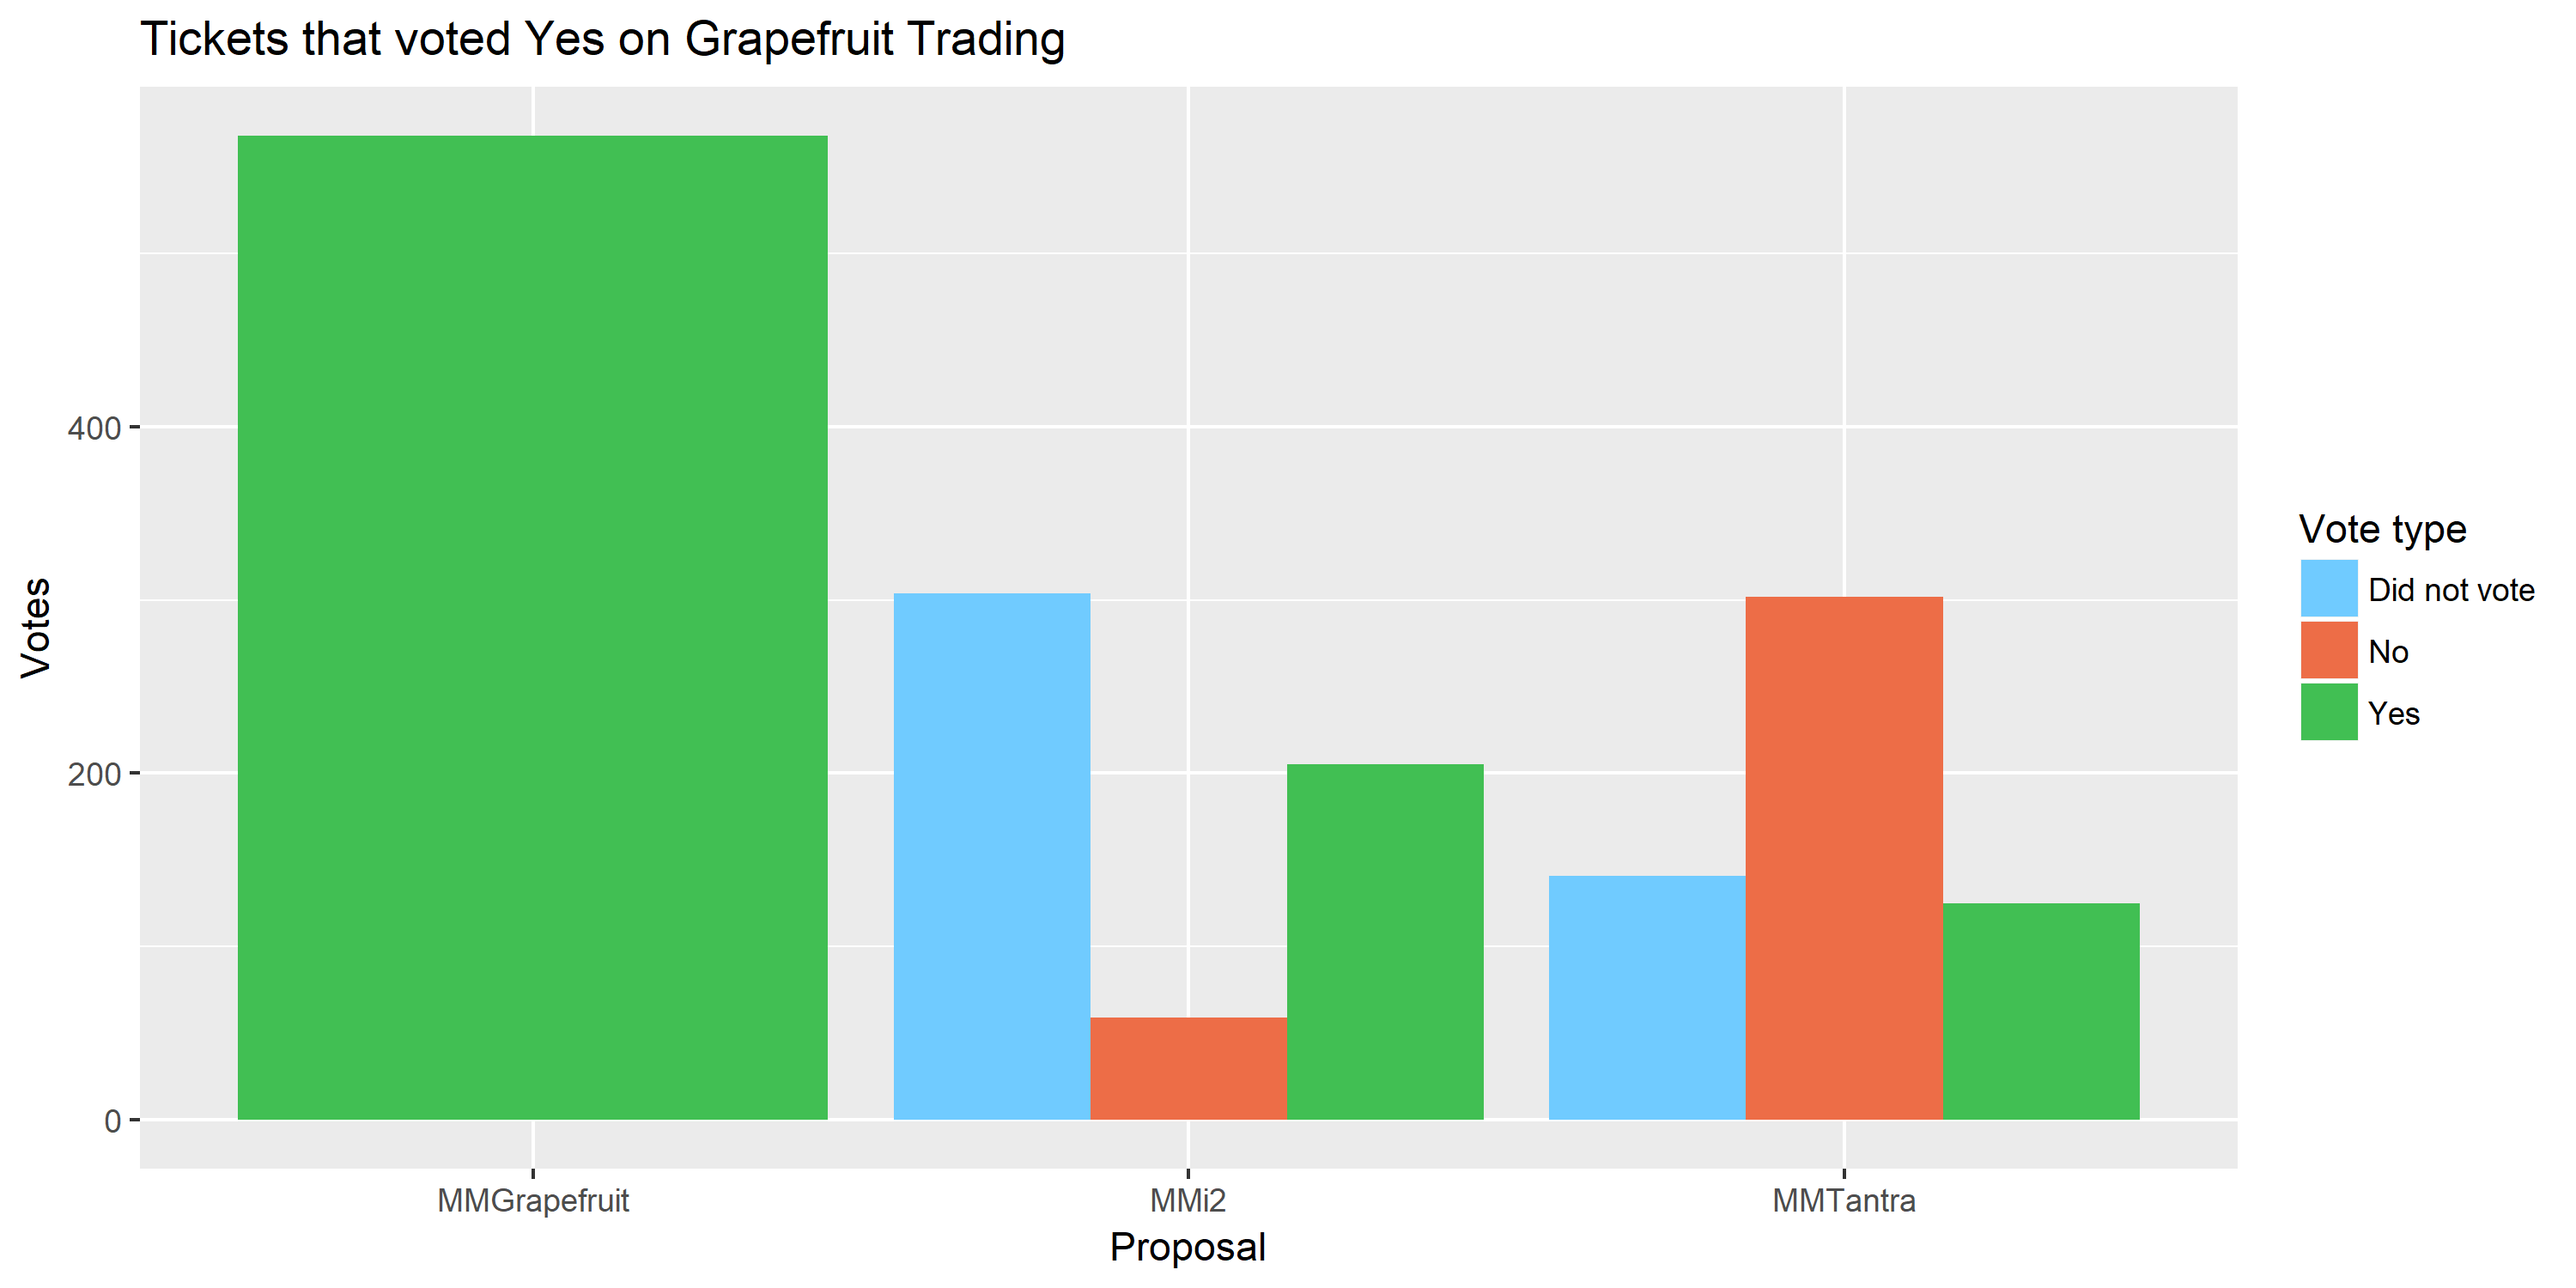
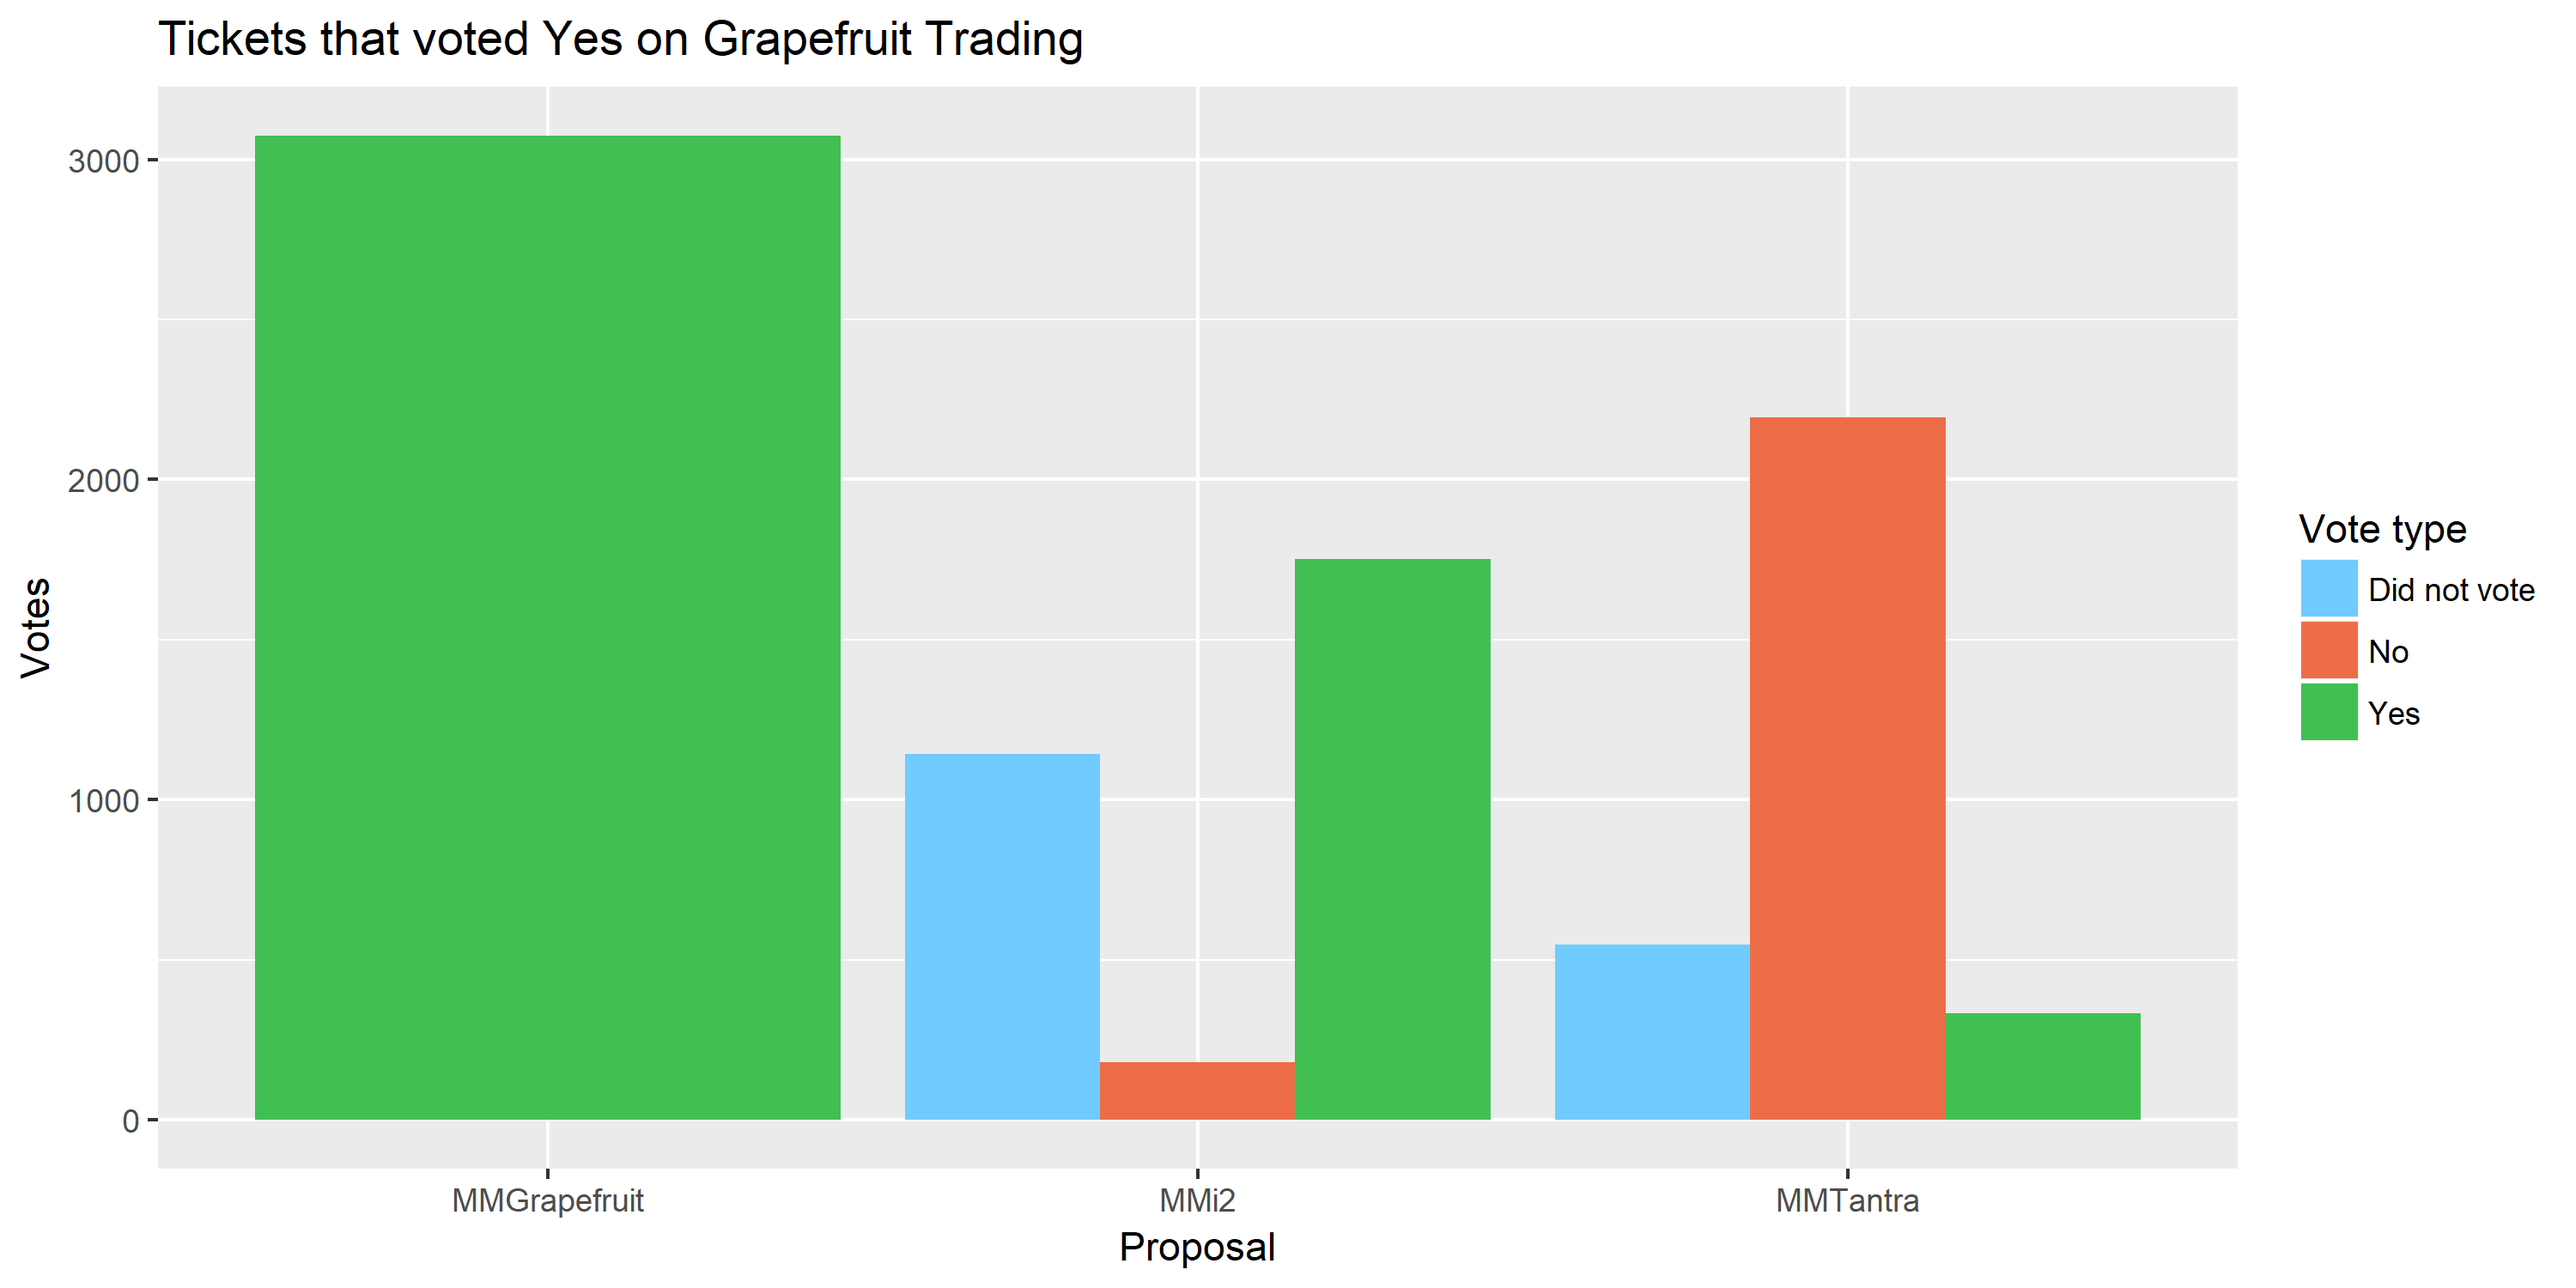
refresh analysis

diff --git a/analysis/voting/market-maker-proposal-voting-interim-analysis.md b/analysis/voting/market-maker-proposal-voting-interim-analysis.md
@@ -1,6 +1,6 @@
 # Market Maker proposal voting - interim analysis
 
-This version uses data from this [commit](https://github.com/decred-proposals/mainnet/commit/b5b2c73504b199c44e679e9045ac56df9219fb73), 1820 UTC on 2019-09-06, i2 Trading is on 61% approval, Grapefruit on 18% and Tantra on 57%. This document will be updated as the voting period progresses.
+This version uses data from this [commit](https://github.com/decred-proposals/mainnet/commit/acbfb3287ab52e97777ea2638b2efd1eaa6c477a), 1600 UTC on 2019-09-08, i2 Trading is on 57% approval, Grapefruit on 42% and Tantra on 52%. This document will be updated as the voting period progresses.
 
 This analysis considers the voting on market maker proposals, looking at the number of proposals each participating ticket is voting on and at patterns within that voting. The aim is to see if there are any differentiating features between the supporters of the various proposals.
 
@@ -8,25 +8,29 @@ This analysis considers the voting on market maker proposals, looking at the num
 
 This bar chart shows the number of tickets that have voted on 1, 2 or 3 of the proposals so far. 
 
-251 tickets (4.57%) have voted No on all proposals.
-66 tickets (1.2%) have voted Yes on all proposals.
+353 tickets (3.15%) have voted No on all proposals.
+
+153 tickets (1.36%) have voted Yes on all proposals.
 
 I have also looked at the other votes of the set of tickets that votes Yes on each proposal - i.e. the first graph shows how the tickets that voted Yes for i2 Trading voted (or not) on the other proposals. 
 
 ![Tickets that voted Yes on i2 Trading](img/mm/tickets-voting-yes-on-i2.png)
 
-Among tickets that votes Yes on i2, there is an even split between Yes/No/Didn't vote on Tantra, and most have not voted on Grapefruit, or voted No.
+Among tickets that votes Yes on i2, there is a fairly even split between Yes/No/Didn't vote on Grapefruit, i2 supporters are more likely to have voted No on Tantra.
 
 ![Tickets that voted Yes on Tantra Labs](img/mm/tickets-voting-yes-on-tantra.png)
 
-Virtually all of the tickets that voted Yes on Tantra also voted on i2, with more voting No than Yes. Most Tantra-supporting tickets voted No on Grapefruit
+Virtually all of the tickets that voted Yes on Tantra also voted on i2, with more voting No than Yes. Most Tantra-supporting tickets voted No on Grapefruit, but there are still 1,500 undecided.
 
 ![Tickets that voted Yes on Grapefruit Trading](img/mm/tickets-voting-yes-on-grapefruit.png)
 
+Grapefruit supporters are mostly voting Yes on i2 and No on Tantra.
+
 I also looked at the previous voting of the tickets that voted Yes to each proposal. For this I am using the number of previous proposals (not one of these 3 proposals) that the ticket voted on as an indicator of how involved that ticket has been in Decred's governance. Tickets of different ages will have had different numbers of opportunities to vote on proposals prior to this, but when averaging over thousands of tickets this should balance out.
 
-The tickets that voted Yes to Grapefruit had voted on a mean 1.3 proposals previously.
+The tickets that voted Yes to Grapefruit had voted on a mean 1.94 proposals previously.
 
-The tickets that voted Yes to i2 Trading had voted on a mean 1.14 proposals previously.
+The tickets that voted Yes to i2 Trading had voted on a mean 1.51 proposals previously.
 
 The tickets that voted Yes to Tantra Labs had voted on a mean 1.2 proposals previously.
+
